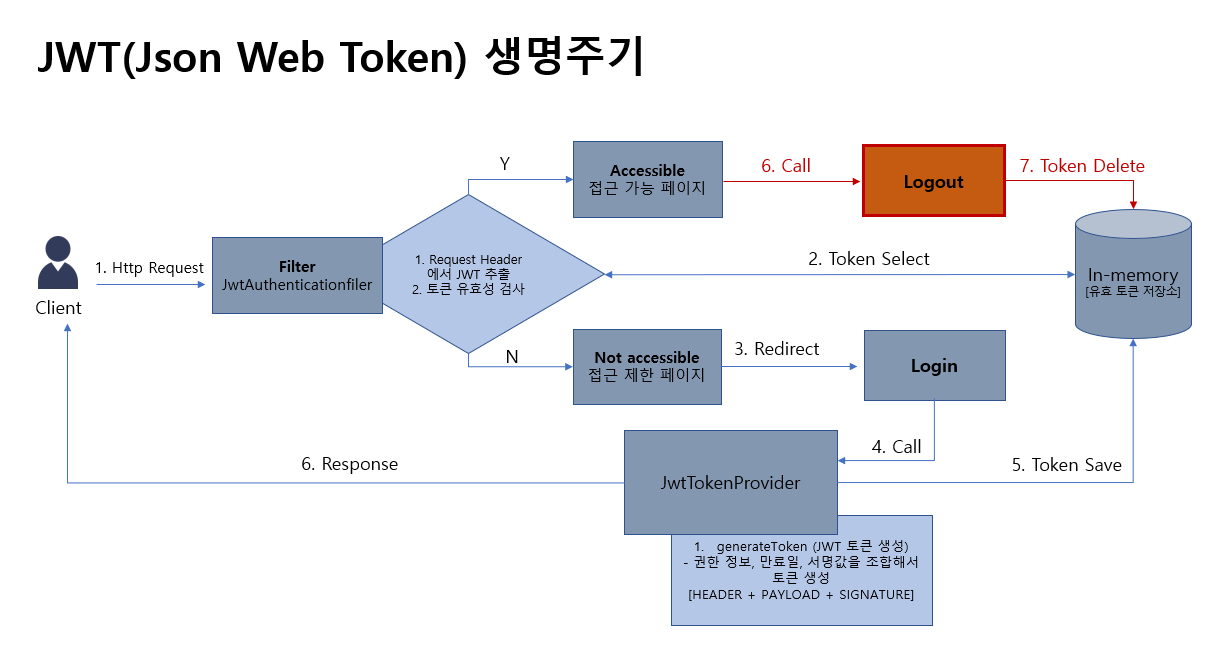
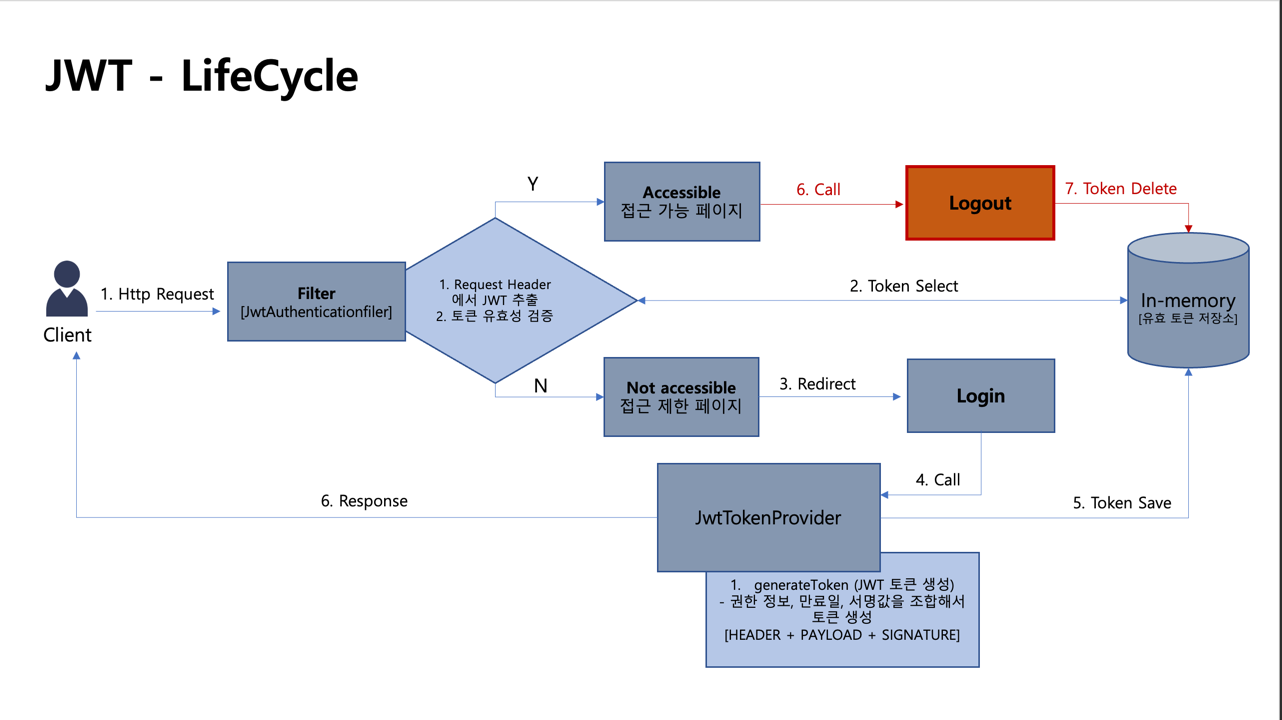
Update. README.md/Process 구성도 추가 및 JWT 라이프 사이클 수정

diff --git a/README.md b/README.md
@@ -5,5 +5,7 @@ Security Reference
 ![](src/main/resources/static/img/SpringSecurity-Architecture.png)
 ## Architecture in Project
 
+### Spring Security - Process
+![SpringSecurity-Process.png](src%2Fmain%2Fresources%2Fstatic%2Fimg%2FSpringSecurity-Process.png)
 ### JWT - Life Cycle
-![](src/main/resources/static/img/JWT-LifeCycle.png)
+![JWT-LifeCycle.png](src%2Fmain%2Fresources%2Fstatic%2Fimg%2FJWT-LifeCycle.png)
